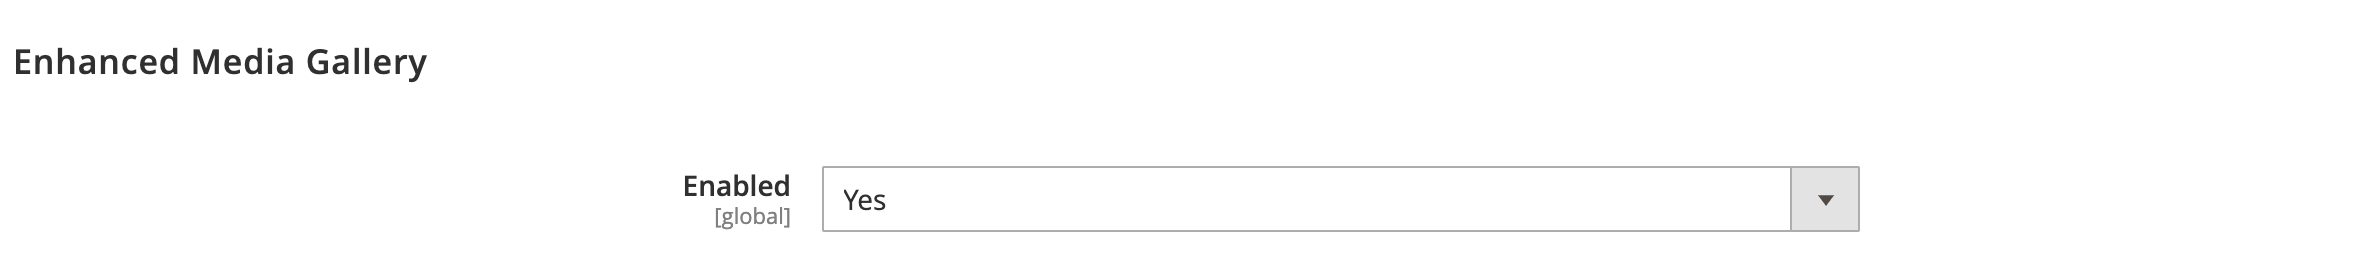
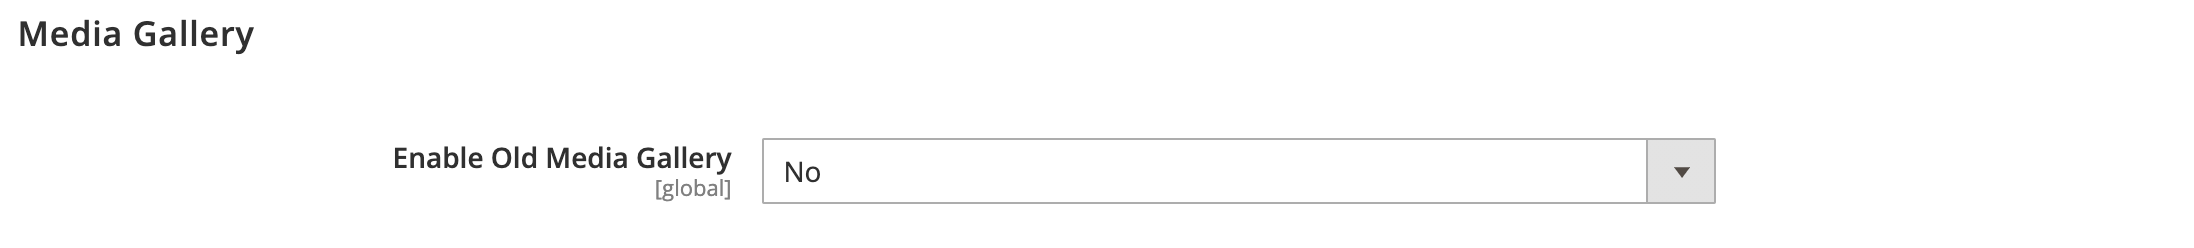
Updated media gallery configuration information

Changed region(s): [[0.155, 0.5363, 0.8058, 0.8468], [0.0, 0.0847, 0.186, 0.2823]]

diff --git a/src/configuration/advanced/system.md b/src/configuration/advanced/system.md
@@ -205,14 +205,14 @@ _Adobe Stock Integration_
 |Client Secret|Global|The Client Secret for your Adobe Stock integration is required. For more information about retrieving this secret and configuring this integration, see [Adobe Stock Integration]({% link cms/adobe-stock.md %}).|
 |Test Connection||Runs a test to verify that the API key is valid for use with the Adobe Stock service.|
 
-## Enhanced Media Gallery
+## Media Gallery
 
-![Advanced configuration - Enhanced Media Gallery]({% link images/images/enhanced-media-gallery/system-enhanced-media-gallery.png %}){: .zoom}
-_Enhanced Media Gallery_
+![Advanced configuration - Media Gallery]({% link images/images/enhanced-media-gallery/system-enhanced-media-gallery.png %}){: .zoom}
+_Media Gallery_
 
 |Field|[Scope]({% link configuration/scope.md %})|Description|
 |--- |--- |--- |
-|Enabled|Global|Enables or disables the new Media Gallery.|
+|Enable Old Media Gallery|Global|Enables or disables the old Media Gallery.|
 
 [1]: https://en.wikipedia.org/wiki/Sendmail
 [2]: https://magento.com/security/news/new-zend-framework-1-security-vulnerability

diff --git a/src/cms/media-gallery.md b/src/cms/media-gallery.md
@@ -12,11 +12,13 @@ With Magento 2.4, merchants can use the new _enhanced_ Media Gallery to organize
 
 1. In the left panel, expand **Advanced** and choose **System**.
 
-1. Expand ![Expansion selector]({% link images/images/btn-expand.png %}) **Enhanced Media Gallery**.
+1. Expand ![Expansion selector]({% link images/images/btn-expand.png %}) **Media Gallery**.
 
-1. Set **Enabled** to `Yes`.
+1. Set **Enable Old Media Gallery** to `No`.
 
 1. Click the <span class="btn">Save Config</span> button.
+
+The new Media Gallery requires `media.gallery.synchronization` and `media.content.synchronization` queue consumers to be started for initial synchronization. See [Manage message queues](https://devdocs.magento.com/guides/v2.4/config-guide/mq/manage-message-queues.html) documentation for more details.
 
 ## Access the new Media Gallery
 
